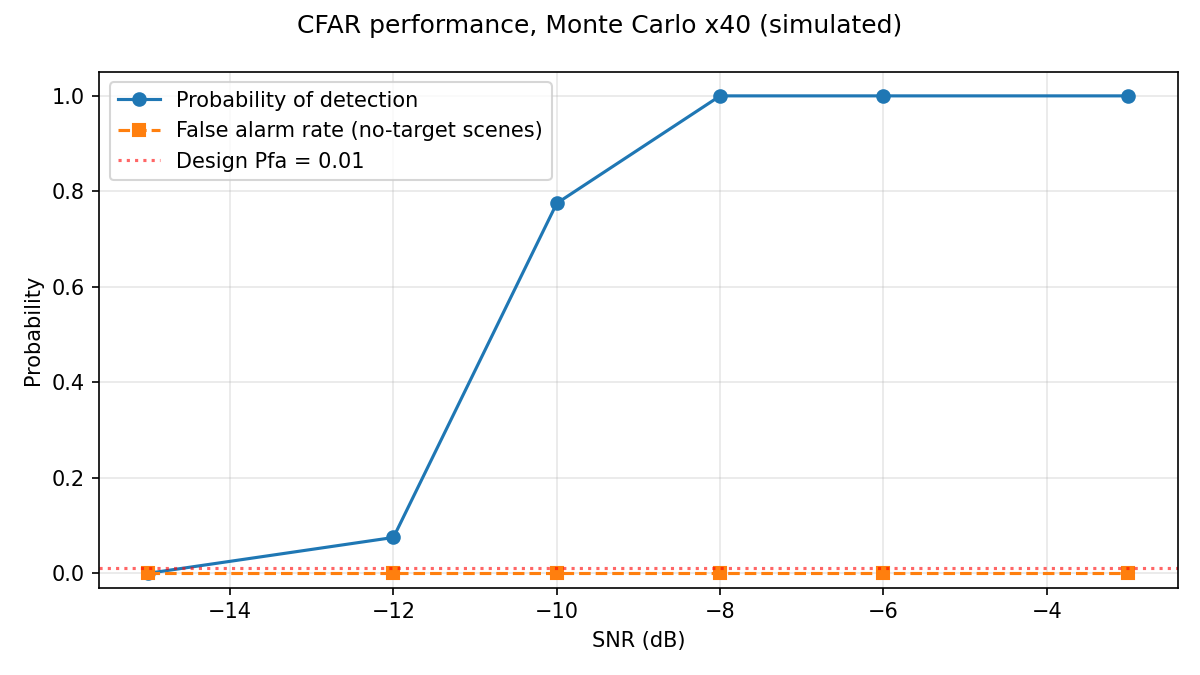
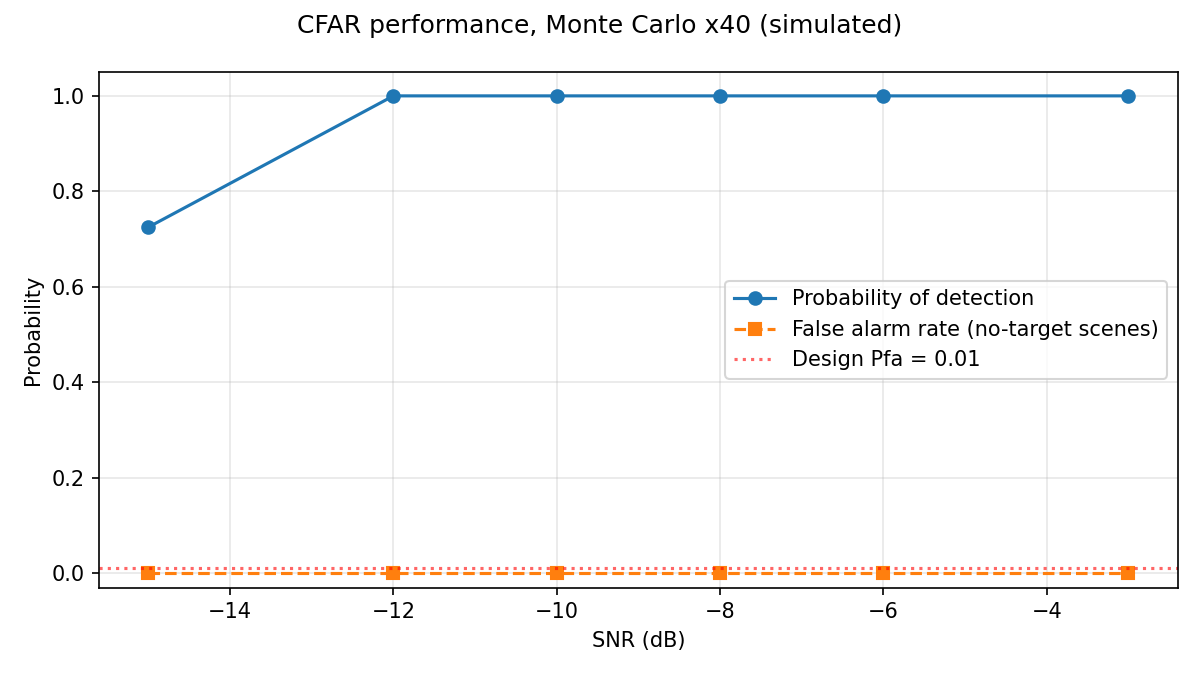
fix: 修复全链路检测漏警并打通检测定位分类流水线

diff --git a/src/detect/cfar.py b/src/detect/cfar.py
@@ -28,12 +28,39 @@ def stft_power(x_mono: np.ndarray, frame_len: int = 256, hop: int = 128,
     return P, freqs, t
 
 
-def cfar_detect(x_mono: np.ndarray, fs: float, frame_len: int = 256,
-                hop: int = 128, pfa: float = 1e-2, ref: int = 8,
-                guard: int = 2, min_frames: int = 5,
+def _energy_cfar_hits(P: np.ndarray, pfa: float, ref: int = 16,
+                      guard: int = 4):
+    """宽带能量 CFAR（沿时间）：每帧总能量 vs 前后参考窗背景。
+
+    负责宽带瞬态事件（落水拍水等）——这类事件在频谱上没有突出谱线，
+    谱线 CFAR 抓不到，但帧总能量明显抬升。瞬态目标不会被时间参考窗
+    完全吸收（事件时长 << 参考窗总长）。
+    """
+    e = P.sum(axis=0)                                # (T,)
+    T = len(e)
+    alpha = (2 * ref) * (pfa ** (-1.0 / (2 * ref)) - 1.0)
+    hits = np.zeros(T, dtype=bool)
+    stat = np.zeros(T)
+    for i in range(T):
+        lo, hi = max(0, i - guard - ref), max(0, i - guard)
+        lo2, hi2 = min(T, i + guard + 1), min(T, i + guard + ref + 1)
+        if (hi - lo) + (hi2 - lo2) < 4:
+            continue
+        bg = (e[lo:hi].sum() + e[lo2:hi2].sum()) / ((hi - lo) + (hi2 - lo2))
+        stat[i] = e[i] / (bg + 1e-20)
+        hits[i] = stat[i] > alpha
+    return hits, stat
+
+
+def cfar_detect(x_mono: np.ndarray, fs: float, frame_len: int = 1024,
+                hop: int = 512, pfa: float = 1e-2, ref: int = 8,
+                guard: int = 2, min_frames: int = 4,
                 merge_gap: float = 0.15,
-                f_range=(500.0, 24_000.0)):
-    """频谱 CFAR 检测主接口。
+                f_range=(100.0, 24_000.0)):
+    """双通道 CFAR 检测主接口（频谱谱线 + 宽带能量，命中任一即报警）。
+
+    频段边缘使用已有的单侧参考窗，门限按实际参考单元数计算，避免低频
+    谱线因另一侧窗口越界而被直接跳过。至少连续 min_frames 帧才形成告警。
 
     返回 (alarms, debug)：
         alarms: list[dict]，含 t_start/t_end/snr_est（秒、dB）
@@ -45,25 +72,29 @@ def cfar_detect(x_mono: np.ndarray, fs: float, frame_len: int = 256,
     Fb, T = Pb.shape
 
     pfa_cell = pfa / Fb
-    alpha = (2 * ref) * (pfa_cell ** (-1.0 / (2 * ref)) - 1.0)
 
-    # 沿频率的滑窗背景估计（cumsum 向量化）：左 ref + 右 ref，跳过 guard
+    # 沿频率估计背景；边缘频点保留可用的单侧参考窗，跳过 guard。
     C = np.concatenate([np.zeros((1, T)), np.cumsum(Pb, axis=0)], axis=0)
     idx = np.arange(Fb)
-    l0, l1 = idx - guard - ref, idx - guard          # 左窗 [l0, l1)
-    r0, r1 = idx + guard + 1, idx + guard + ref + 1  # 右窗 [r0, r1)
-    valid = (l0 >= 0) & (r1 <= Fb)
-    bg = np.full((Fb, T), np.nan)
-    bg[valid] = (C[l1[valid]] - C[l0[valid]]
-                 + C[r1[valid]] - C[r0[valid]]) / (2 * ref)
+    l0 = np.maximum(0, idx - guard - ref)
+    l1 = np.maximum(0, idx - guard)
+    r0 = np.minimum(Fb, idx + guard + 1)
+    r1 = np.minimum(Fb, idx + guard + ref + 1)
+    n_ref = (l1 - l0) + (r1 - r0)
+    valid = n_ref >= 4
+    bg = (C[l1] - C[l0] + C[r1] - C[r0]) / np.maximum(n_ref, 1)[:, None]
+    alpha = n_ref * (pfa_cell ** (-1.0 / np.maximum(n_ref, 1)) - 1.0)
 
     with np.errstate(invalid="ignore", divide="ignore"):
         ratio = Pb / bg
         ratio[~np.isfinite(ratio)] = 0.0
-    hit = (ratio > alpha) & valid[:, None]
+    hit = (ratio > alpha[:, None]) & valid[:, None]
     stat = 10 * np.log10(np.where(valid[:, None], ratio, 0.0).max(axis=0) + 1e-20)
 
     frame_hit = hit.any(axis=0)
+    # 宽带能量通道（虚警率预算对半分）
+    e_hit, _ = _energy_cfar_hits(Pb, pfa / 2)
+    frame_hit = frame_hit | e_hit
     alarms = []
     i = 0
     while i < T:
@@ -88,4 +119,5 @@ def cfar_detect(x_mono: np.ndarray, fs: float, frame_len: int = 256,
             m["snr_est"] = max(m["snr_est"], a["snr_est"])
         else:
             merged.append(dict(a))
-    return merged, dict(t=t, stat=stat, th_db=10 * np.log10(alpha))
+    nominal_alpha = (2 * ref) * (pfa_cell ** (-1.0 / (2 * ref)) - 1.0)
+    return merged, dict(t=t, stat=stat, th_db=10 * np.log10(nominal_alpha))

diff --git a/tests/test_detection_pipeline.py b/tests/test_detection_pipeline.py
@@ -1,0 +1,89 @@
+# -*- coding: utf-8 -*-
+"""检测与全链路场景的关键回归测试。"""
+import unittest
+
+import numpy as np
+
+from run_pipeline import FS, add_source
+from sim.sources import fish
+from src.detect.cfar import cfar_detect
+
+
+class DetectionPipelineTests(unittest.TestCase):
+    def test_add_source_writes_late_event_at_requested_time(self):
+        """晚于源信号时长的事件也必须真实写入目标时间窗。"""
+        n = int(6.0 * FS)
+        x_all = np.zeros((4, n))
+        rng = np.random.default_rng(3)
+        sig = fish(duration=1.0, rng=rng)
+        start = int(4.0 * FS)
+
+        add_source(x_all, sig, bearing_deg=120.0, t0=4.0, snr_db=0.0, rng=rng)
+
+        written = x_all[:, start:start + len(sig)]
+        self.assertGreater(float(np.std(written)), 0.5)
+        self.assertEqual(int(np.count_nonzero(x_all[:, :start])), 0)
+        self.assertEqual(int(np.count_nonzero(x_all[:, start + len(sig):])), 0)
+
+    def test_cfar_detects_low_frequency_line_at_band_edge(self):
+        """300 Hz 弱线谱不能因参考窗触及低频边界而漏检。"""
+        rng = np.random.default_rng(21)
+        n = int(4.0 * FS)
+        t = np.arange(n) / FS
+        x = 0.5 * rng.standard_normal(n)
+        mask = (t >= 1.0) & (t <= 3.0)
+        x[mask] += 0.2 * np.sin(2 * np.pi * 300.0 * t[mask])
+
+        alarms, _ = cfar_detect(x, FS, pfa=1e-2)
+
+        self.assertTrue(any(a["t_start"] < 3.0 and a["t_end"] > 1.0 for a in alarms))
+
+    def test_cfar_detects_sparse_fish_clicks(self):
+        """短促咔哒串至少应形成一个覆盖事件窗口的告警。"""
+        rng = np.random.default_rng(11)
+        n = int(4.0 * FS)
+        x = 0.5 * rng.standard_normal(n)
+        sig = fish(duration=1.5, rng=rng)
+        start = int(1.0 * FS)
+        x[start:start + len(sig)] += sig
+
+        alarms, _ = cfar_detect(x, FS, pfa=1e-2)
+
+        self.assertTrue(any(a["t_start"] < 2.5 and a["t_end"] > 1.0 for a in alarms))
+
+    def test_doa_band_uses_mean_channel_power(self):
+        """选频应按频率轴比较功率，反相通道也不能互相抵消。"""
+        try:
+            from run_pipeline import select_doa_band
+        except ImportError:
+            self.fail("缺少统一的 DOA 选频函数")
+        freqs = np.array([1000.0, 10_000.0, 20_000.0])
+        X = np.zeros((4, 3), dtype=complex)
+        X[:, 0] = 0.1
+        X[:, 1] = np.array([1.0, -1.0, 1.0, -1.0])
+        X[:, 2] = 0.2
+
+        band = select_doa_band(X, freqs, half_width=1500.0)
+
+        self.assertEqual(band, (8500.0, 11_500.0))
+
+    def test_analysis_window_has_fixed_one_second_length(self):
+        """任意长度告警都应转换成模型要求的 1 秒定长输入。"""
+        try:
+            from run_pipeline import analysis_window
+        except ImportError:
+            self.fail("缺少定长分析窗函数")
+        n = int(8.0 * FS)
+        x_all = np.tile(np.arange(n), (4, 1))
+        alarm = dict(t_start=4.50, t_end=4.52)
+
+        seg = analysis_window(x_all, alarm, FS)
+
+        self.assertEqual(seg.shape, (4, int(FS)))
+        expected_start = int(4.51 * FS - FS / 2)
+        self.assertEqual(int(seg[0, 0]), expected_start)
+        self.assertEqual(int(seg[0, -1]), expected_start + int(FS) - 1)
+
+
+if __name__ == "__main__":
+    unittest.main()

diff --git a/run_pipeline.py b/run_pipeline.py
@@ -31,17 +31,34 @@ EVENTS = [
 
 def add_source(x_all, sig, bearing_deg, t0, snr_db, rng):
     """把单通道源信号按方位角加入四通道阵列（频域分数时延）。"""
-    n = x_all.shape[1]
+    n = len(sig)
     pos = element_positions(R)
     u = np.array([np.cos(np.deg2rad(bearing_deg)), np.sin(np.deg2rad(bearing_deg))])
     taus = pos @ u / C
     freqs = np.fft.rfftfreq(n, 1 / FS)
-    S = np.fft.rfft(sig, n=n)
+    S = np.fft.rfft(sig)
     start = int(t0 * FS)
     scale = np.sqrt(np.mean(sig ** 2) / (10 ** (snr_db / 10.0)))
     for i in range(4):
         delayed = np.fft.irfft(S * np.exp(-1j * 2 * np.pi * freqs * taus[i]), n=n)
-        x_all[i, start:start + len(sig)] += scale * delayed[start:start + len(sig)]
+        x_all[i, start:start + n] += scale * delayed
+
+
+def select_doa_band(X, freqs, f_min=80.0, f_max=24_000.0, half_width=1500.0):
+    """按四通道平均功率选择峰值频率，返回 DOA 使用的频带。"""
+    band = (freqs > f_min) & (freqs < f_max)
+    band_power = (np.abs(X) ** 2).mean(axis=0)
+    f_peak = freqs[band][int(np.argmax(band_power[band]))]
+    return max(f_min, f_peak - half_width), min(f_max, f_peak + half_width)
+
+
+def analysis_window(x_all, alarm, fs=FS, duration=1.0):
+    """以告警中心截取定长分析窗，接近记录边界时平移窗口。"""
+    n_win = int(round(duration * fs))
+    center = (alarm["t_start"] + alarm["t_end"]) / 2.0
+    start = int(round(center * fs)) - n_win // 2
+    start = min(max(0, start), x_all.shape[1] - n_win)
+    return x_all[:, start:start + n_win]
 
 
 def main() -> None:
@@ -56,25 +73,21 @@ def main() -> None:
     with open(os.path.join("models", "mlp_classifier.pkl"), "rb") as f:
         clf = pickle.load(f)
 
-    mono = x_all.mean(axis=0)
+    # 检测和分类使用参考通道，避免高频信号在直接平均四通道时相消。
+    mono = x_all[0]
     alarms, dbg = cfar_detect(mono, FS, pfa=1e-2)
     print("=" * 66)
     print("听水·知微 | 全链路流水线（检测→定位→分类，仿真数据）")
     print("=" * 66)
     print(f"共 {len(alarms)} 段告警：")
     for a in alarms:
-        i0, i1 = int(a["t_start"] * FS), int(a["t_end"] * FS)
-        seg = x_all[:, i0:i1]
+        seg = analysis_window(x_all, a, FS)
         X = np.fft.rfft(seg, axis=1)
         freqs = np.fft.rfftfreq(seg.shape[1], 1 / FS)
-        # 自动选取能量最强的谱线所在频带做波束形成
-        band_power = X.mean(axis=1)
-        k = int(np.argmax(np.abs(band_power[(freqs > 500) & (freqs < 24000)])))
-        f_peak = freqs[(freqs > 500) & (freqs < 24000)][k]
-        f_lo, f_hi = max(500.0, f_peak - 1500), min(24000.0, f_peak + 1500)
-        _, _, est = cbf_spectrum(X, freqs, r=R, c=C, f_band=(f_lo, f_hi))
+        f_band = select_doa_band(X, freqs)
+        _, _, est = cbf_spectrum(X, freqs, r=R, c=C, f_band=f_band)
         label, prob = __import__("src.classify.mlp", fromlist=["classify"]) \
-            .classify(mono[i0:i1], clf)
+            .classify(seg[0], clf)
         print(f"【告警】{a['t_start']:5.2f}s–{a['t_end']:5.2f}s | "
               f"方位 {est:6.1f}° | 类型 {label:6s} | 置信度 {prob:.2f}")
     print("\n真实事件对照：")

diff --git a/docs/algorithm-framework.md b/docs/algorithm-framework.md
@@ -15,7 +15,7 @@
 [doa] 方位估计（CBF / MUSIC）
    │  → bearing_deg, spectrum(方位谱), confidence
    ▼
-[classify] 目标分类（log-Mel + CNN）
+[classify] 目标分类（log-Mel + MLP，CNN 为后续升级）
    │  → label(ship/human/fish), prob
    ▼
 [viz] 可视化 + 告警记录
@@ -34,8 +34,8 @@
 | 水中声速 `c` | 1500 m/s |
 | 时域波形 | `x: np.ndarray (4, N)`，通道顺序与 `sim/uca_sim.ELEMENT_ANGLES_DEG` 一致 |
 | 频域波形 | `X: np.ndarray (4, F)`，`np.fft.rfft(x, axis=1)` |
-| 分帧 | 帧长 256 点（2.67 ms），步长 128 点 |
-| 频段 | 重点关注 8–12 kHz（仿真频段），分类特征用 log-Mel（0–24 kHz） |
+| 分帧 | CFAR 与 log-Mel 均为帧长 1024 点、步长 512 点；DOA 窄带快拍按各算法脚本配置 |
+| 频段 | DOA 基础仿真重点关注 8–12 kHz；CFAR 100 Hz–24 kHz；分类 log-Mel 50 Hz–24 kHz |
 | 方位角 | 度，0°=x 轴正方向，逆时针，范围 [0, 360) |
 
 ## 3. 模块清单与接口
@@ -45,11 +45,11 @@
 - 接口：`simulate_uca(phi_deg, f0, fs, duration, snr_db, r, c, seed) -> (t, x, X, freqs)`
 - 待扩展：`simulate_moving_source()`（声源移动，出方位-时间记录图）、多类信号生成器（供分类用）
 
-### detect —— CFAR 异常检测（⬜ 待做）
+### detect —— CFAR 异常检测（✅ 已完成，仿真验证）
 - 文件：`src/detect/cfar.py`
-- 接口：`cfar_detect(x, fs, frame_len=256, hop=128, pfa=1e-3) -> list[AlarmEvent]`
-- 原理：滑动参考窗估计背景噪声功率，门限=噪声×系数，系数由虚警率 pfa 决定；门限随环境自适应
-- 验收图：能量曲线+自适应门限叠加图；检测率/虚警率随 SNR 变化曲线（蒙特卡洛 100 次）
+- 接口：`cfar_detect(x, fs, frame_len=1024, hop=512, pfa=1e-2) -> (alarms, debug)`
+- 原理：频率向谱线 CFAR + 时间向宽带能量 CFAR 双通道；低频边缘使用单侧参考窗，门限随背景自适应
+- 验收图：检测统计量+门限图；检测率/虚警率随 SNR 变化曲线（当前每个 SNR 蒙特卡洛 40 次）
 - `AlarmEvent = dict(t_start, t_end, snr_est)`（字段写入数据接口规范）
 
 ### doa —— 方位估计（✅ 已完成）
@@ -59,14 +59,15 @@
   - `music_spectrum(x, fs, f0, r, c, n_sources=1, ...) -> (angles_deg, P_db, est_deg)`
 - 待扩展：多信源 MUSIC（n_sources>1）；多途/相干源 → 空间平滑（列为"已知问题与后续工作"）
 
-### classify —— 智能分类（⬜ 待做）
-- 文件：`src/classify/features.py`（log-Mel 提取）、`src/classify/cnn.py`（模型）、`src/classify/train.py`
+### classify —— 智能分类（✅ MLP 版已完成，仿真验证）
+- 文件：`src/classify/features.py`（log-Mel 提取）、`src/classify/mlp.py`（训练与推理）
 - 接口：
-  - `logmel(x_mono, fs, n_mels=64) -> S: (n_mels, T)`
-  - `classify(x, fs, model) -> (label, prob)`，label ∈ {ship, human, fish, noise}
-- 数据：三类仿真信号 + 公开数据集（ShipsEar/DeepShip，仅船舶类真实数据）
-- 模型：4 层小 CNN（64×T 时频图 → conv→pool×3 → fc），CPU 可训练
-- 验收图：混淆矩阵 + 训练/验证准确率曲线
+  - `logmel(x_mono, fs, n_mels=40) -> S: (n_mels, T)`
+  - `classify(x_mono, clf, fs) -> (label, prob)`，label ∈ {ship, human, fish, noise}
+- 输入约定：当前 MLP 使用 1 s 定长波形，流水线负责截取以告警为中心的 1 s 分析窗
+- 数据：当前仅三类仿真信号 + 仿真噪声；公开数据集 ShipsEar/DeepShip 尚未接入
+- 模型：log-Mel(40) + sklearn MLP(128)；CNN 留作后续升级，不再作为当前完成项表述
+- 验收图：混淆矩阵 + 四类 log-Mel 特征图；测试准确率 96.2%（仿真测试集）
 
 ### viz —— 可视化（⬜ 待做）
 - 文件：`src/viz/app.py`（Streamlit）
@@ -74,23 +75,24 @@
 - 输入：完整流水线跑完一段仿真数据的结果
 - 验收：录屏 1–2 分钟（OBS）
 
-### pipeline —— 主控串联（⬜ 待做）
+### pipeline —— 主控串联（✅ 已完成，仿真验证）
 - 文件：`run_pipeline.py`
-- 逻辑：`for 每一帧: detect → 有告警则 doa + classify → 输出 AlarmEvent 并可视化`
-- 终端输出格式：`【告警】14:32:05 | 方位 35.0° | 类型 ship | 置信度 0.93`
+- 逻辑：参考通道 CFAR 检测 → 告警定长分析窗 → 四通道 CBF → MLP 分类 → 输出告警
+- 终端输出格式：`【告警】1.01s–3.00s | 方位 61.4° | 类型 ship | 置信度 1.00`
+- 回归：`python -m unittest discover -s tests -v` 当前 5 项全部通过
 
 ## 4. 答辩图清单（每张图对应一个脚本，完成即打勾）
 
 - [x] 四通道波形图（`run_demo_d1.py`）
 - [x] CBF 方位谱（`run_demo_d1.py`）
 - [x] CBF vs MUSIC 对比，0/-10 dB（`run_demo_music.py`）
-- [ ] CFAR 能量+门限曲线（detect）
-- [ ] 检测率/虚警率-SNR 曲线（detect）
-- [ ] 分类混淆矩阵（classify）
+- [x] CFAR 检测统计量+门限曲线（`run_demo_cfar.py`）
+- [x] 检测率/虚警率-SNR 曲线（`run_demo_cfar.py`）
+- [x] 分类混淆矩阵（`run_demo_classify.py`）
 - [ ] 方位-时间记录图 BTR（sim 移动声源 + doa）
 - [ ] 可视化平台截图/录屏（viz）
 
 ## 5. 开发顺序
 
-detect(CFAR) → classify(CNN) → pipeline 串联 → viz → BTR 扩展。
+detect、classify(MLP)、pipeline 已完成；下一步为数据接口规范与 viz，再做 BTR 扩展。
 时间不够时从后往前砍；detect + doa + 对比图是保底。

diff --git a/docs/handoff.md b/docs/handoff.md
@@ -5,6 +5,27 @@
 
 ---
 
+## 2026-11-20 · 全链路流水线修复并通过回归
+
+**做了什么**
+- 修复 `run_pipeline.py` 的事件写入错位：原实现先对零填充到 8 秒的源信号做 FFT，又从 `start` 处切片，导致 4 s 后的拍水和 5.5 s 后的鱼类信号几乎没有写入；现在只对源信号本身做分数时延，再完整写入目标时间窗。
+- 检测与分类改用参考通道 `x_all[0]`，避免高频信号直接做四通道相干平均时相消；DOA 仍使用四通道。
+- CFAR 低频边缘改用可用的单侧参考窗，门限按实际参考单元数计算；最短连续命中由 5 帧调为 4 帧（约 21 ms），以覆盖短促咔哒。
+- 修复 DOA 自动选频的通道/频率轴错误，改用四通道平均功率；分类前统一截取以告警为中心的 1 s 分析窗，匹配 MLP 的固定输入长度。
+- 新增 `tests/test_detection_pipeline.py` 5 项回归测试，均已先复现失败再修复，当前全部通过。
+
+**真实运行结果（全部为仿真数据）**
+- `python run_pipeline.py`：共 4 段告警——ship 1.01–3.00 s、61.4°；human 4.50–4.52 s、120.3°；human 4.81–4.82 s、119.8°；fish 6.11–6.13 s、250.2°。类别全部正确；拍水有两段告警，对应多次脉冲，后续可在事件层进一步合并。
+- `python run_demo_cfar.py`（每个 SNR 40 次）：-15 dB 检测率 0.72，-12～-3 dB 检测率均 1.00，本轮所有无目标场景虚警率均 0。图已更新到 `figures/day3/`。
+- 方位结果是当前单次仿真场景输出，不代表已证明低频小孔径阵列的普遍测向精度，不能写成真实海试结论。
+
+**下次从哪开始**
+1. 数据接口规范文档，把仿真、检测、DOA、分类的输入输出字段固定下来。
+2. 基于已跑通的 `run_pipeline.py` 做可视化，直接展示真实运行输出，不另造结果。
+3. 中期报告与 PPT 引用上述可复现实验，同时明确“仿真验证、尚未实测”。
+
+---
+
 ## 2026-11-19（晚，第二次会话）· CFAR + 分类 + 流水线（流水线待调试）
 
 **做了什么**
